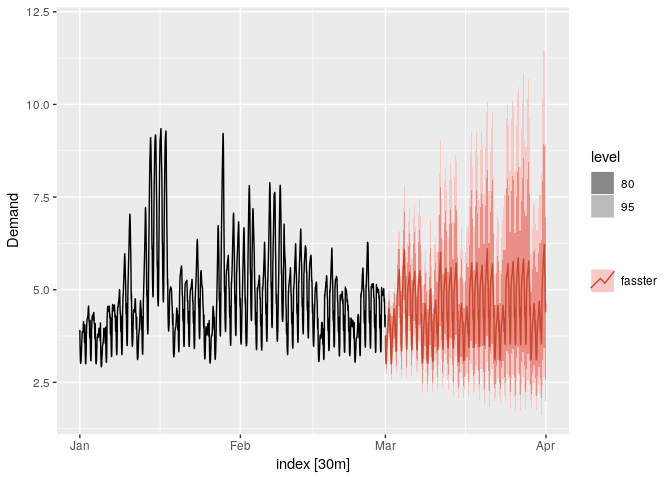
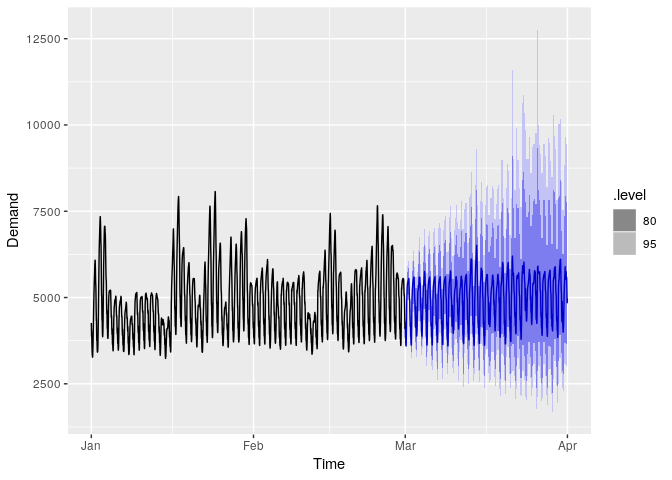
Updated README for other package changes
Resolves #43

diff --git a/README.md b/README.md
@@ -58,11 +58,42 @@ Usage
 specify the model structure with standard formula conventions.
 
 ``` r
-fit <- tsibbledata::UKLungDeaths %>%
-  model(fasster = FASSTER(fdeaths ~ mdeaths))
+library(fasster)
+#> Loading required package: fablelite
+library(tidyverse)
+#> ── Attaching packages ────────────────────────────────────────────────────────────────────────────────────────────────────────────────── tidyverse 1.2.1 ──
+#> ✔ ggplot2 3.1.1     ✔ purrr   0.3.2
+#> ✔ tibble  2.1.1     ✔ dplyr   0.8.1
+#> ✔ tidyr   0.8.3     ✔ stringr 1.4.0
+#> ✔ readr   1.3.1     ✔ forcats 0.3.0
+#> ── Conflicts ───────────────────────────────────────────────────────────────────────────────────────────────────────────────────── tidyverse_conflicts() ──
+#> ✖ dplyr::filter() masks stats::filter()
+#> ✖ dplyr::lag()    masks stats::lag()
+library(lubridate)
+#> 
+#> Attaching package: 'lubridate'
+#> The following object is masked from 'package:base':
+#> 
+#>     date
+library(tsibble)
+#> 
+#> Attaching package: 'tsibble'
+#> The following objects are masked from 'package:lubridate':
+#> 
+#>     interval, new_interval
+#> The following object is masked from 'package:dplyr':
+#> 
+#>     id
+library(fable)
 
-fit %>% summary
-#> FASSTER ModelEstimated variances:
+lung_deaths <- as_tsibble(cbind(mdeaths, fdeaths), pivot_longer = FALSE)
+fit <- lung_deaths %>%
+  model(fasster = FASSTER(fdeaths ~ mdeaths))
+fit %>% report()
+#> Series: fdeaths 
+#> Model: FASSTER 
+#> 
+#> Estimated variances:
 #>  State noise variances (W):
 #>   mdeaths
 #>    1.7119e-34
@@ -86,16 +117,18 @@ For example, to create a model with trend and monthly seasonality, you
 can use:
 
 ``` r
-fit <- USAccDeaths %>% 
-  as_tsibble %>% 
+fit <- as_tsibble(USAccDeaths) %>% 
   model(fasster = FASSTER(value ~ poly(1) + trig(12)))
-fit %>% summary
-#> FASSTER ModelEstimated variances:
+fit %>% report()
+#> Series: value 
+#> Model: FASSTER 
+#> 
+#> Estimated variances:
 #>  State noise variances (W):
 #>   poly(1)
 #>    5.9382e+03
 #>   trig(12)
-#>    1.4370e-12 7.8660e-13 7.4156e-13 1.1844e-12 2.8774e-13 6.4809e-13 2.6654e-13 4.1593e-13 5.5689e-13 1.4806e-13 2.7203e-13
+#>    8.7014e-13 4.3753e-13 6.1525e-13 1.0068e-13 4.0775e-13 2.3503e-13 3.1338e-13 2.2672e-13 2.7455e-13 2.5930e-13 1.0622e-13
 #> 
 #>  Observation noise variance (V):
 #>   2.0543e+04
@@ -107,8 +140,12 @@ more complex patterns such as multiple seasonality by modelling the
 components for each group separately and switching between them.
 
 ``` r
-elec_tr <- tsibbledata::elecdemand %>%
-  dplyr::filter(index < lubridate::ymd("2014-03-01"))
+elec_tr <- tsibbledata::aus_elec %>%
+  filter(
+    State == "Victoria",
+    Time < lubridate::ymd("2012-03-01")
+  ) %>% 
+  mutate(WorkDay = wday(Time) %in% 2:6 & !Holiday)
 
 elec_fit <- elec_tr %>%
   model(
@@ -129,43 +166,48 @@ These components can accessed from a fitted model using the
 
 ``` r
 fit %>% 
-  components
-#> # A tsibble: 72 x 4 [1M]
-#> # Key:       .model [1]
-#>    .model     index `poly(1)` `trig(12)`
-#>    <chr>      <mth>     <dbl>      <dbl>
-#>  1 fasster 1973 Jan     9740.     -795. 
-#>  2 fasster 1973 Feb     9754.    -1546. 
-#>  3 fasster 1973 Mar     9719.     -758. 
-#>  4 fasster 1973 Apr     9706.     -536. 
-#>  5 fasster 1973 May     9693.      322. 
-#>  6 fasster 1973 Jun     9694.      802. 
-#>  7 fasster 1973 Jul     9830.     1669. 
-#>  8 fasster 1973 Aug     9755.      974. 
-#>  9 fasster 1973 Sep     9761.      -65.7
-#> 10 fasster 1973 Oct     9768.      233. 
-#> # ... with 62 more rows
+  components()
+#> # A dable:               72 x 5 [1M]
+#> # Key:                   .model [1]
+#> # FASSTER Decomposition: value = `poly(1)` + `trig(12)`
+#>    .model     index value `poly(1)` `trig(12)`
+#>    <chr>      <mth> <dbl>     <dbl>      <dbl>
+#>  1 fasster 1973 Jan  9007     9740.     -795. 
+#>  2 fasster 1973 Feb  8106     9754.    -1546. 
+#>  3 fasster 1973 Mar  8928     9719.     -758. 
+#>  4 fasster 1973 Apr  9137     9706.     -536. 
+#>  5 fasster 1973 May 10017     9693.      322. 
+#>  6 fasster 1973 Jun 10826     9694.      802. 
+#>  7 fasster 1973 Jul 11317     9830.     1669. 
+#>  8 fasster 1973 Aug 10744     9755.      974. 
+#>  9 fasster 1973 Sep  9713     9761.      -65.7
+#> 10 fasster 1973 Oct  9938     9768.      233. 
+#> # … with 62 more rows
 ```
 
 ``` r
 elec_fit %>%
-  components
-#> # A tsibble: 2,832 x 8 [30m] <UTC>
-#> # Key:       .model [1]
-#>    .model index               `I(Temperature^… Temperature `WorkDay_0/poly…
-#>    <chr>  <dttm>                         <dbl>       <dbl>            <dbl>
-#>  1 fasst… 2014-01-01 00:00:00         0.000512     -0.0189             1.55
-#>  2 fasst… 2014-01-01 00:30:00         0.000512     -0.0189             1.55
-#>  3 fasst… 2014-01-01 01:00:00         0.000512     -0.0189             1.55
-#>  4 fasst… 2014-01-01 01:30:00         0.000512     -0.0189             1.55
-#>  5 fasst… 2014-01-01 02:00:00         0.000510     -0.0188             1.55
-#>  6 fasst… 2014-01-01 02:30:00         0.000509     -0.0186             1.54
-#>  7 fasst… 2014-01-01 03:00:00         0.000510     -0.0187             1.54
-#>  8 fasst… 2014-01-01 03:30:00         0.000509     -0.0187             1.53
-#>  9 fasst… 2014-01-01 04:00:00         0.000521     -0.0195             1.54
-#> 10 fasst… 2014-01-01 04:30:00         0.000505     -0.0184             1.52
-#> # ... with 2,822 more rows, and 3 more variables: `WorkDay_0/trig(48,
-#> #   16)` <dbl>, `WorkDay_1/poly(1)` <dbl>, `WorkDay_1/trig(48, 16)` <dbl>
+  components()
+#> # A dable:               2,880 x 10 [30m] <UTC>
+#> # Key:                   State, .model [1]
+#> # FASSTER Decomposition: log(Demand) = `I(Temperature^2)` + Temperature +
+#> #   `WorkDay_FALSE/poly(1)` + `WorkDay_FALSE/trig(48, 16)` +
+#> #   `WorkDay_TRUE/poly(1)` + `WorkDay_TRUE/trig(48, 16)`
+#>    State .model Time                `log(Demand)` `I(Temperature^…
+#>    <chr> <chr>  <dttm>                      <dbl>            <dbl>
+#>  1 Vict… fasst… 2012-01-01 00:00:00          8.36         0.000996
+#>  2 Vict… fasst… 2012-01-01 00:30:00          8.31         0.000996
+#>  3 Vict… fasst… 2012-01-01 01:00:00          8.26         0.000997
+#>  4 Vict… fasst… 2012-01-01 01:30:00          8.30         0.000998
+#>  5 Vict… fasst… 2012-01-01 02:00:00          8.26         0.001000
+#>  6 Vict… fasst… 2012-01-01 02:30:00          8.21         0.00101 
+#>  7 Vict… fasst… 2012-01-01 03:00:00          8.18         0.00101 
+#>  8 Vict… fasst… 2012-01-01 03:30:00          8.14         0.000962
+#>  9 Vict… fasst… 2012-01-01 04:00:00          8.12         0.001000
+#> 10 Vict… fasst… 2012-01-01 04:30:00          8.11         0.000924
+#> # … with 2,870 more rows, and 5 more variables: Temperature <dbl>,
+#> #   `WorkDay_FALSE/poly(1)` <dbl>, `WorkDay_FALSE/trig(48, 16)` <dbl>,
+#> #   `WorkDay_TRUE/poly(1)` <dbl>, `WorkDay_TRUE/trig(48, 16)` <dbl>
 ```
 
 The tools made available by *fasster* are designed to integrate
@@ -174,17 +216,14 @@ manipulation and visualisation capabilities.
 
 ### Forecasting
 
-*fasster* conforms to the object structure from the *forecast* package,
+*fasster* conforms to the object structure from the *fable* package,
 allowing common visualisation and analysis tools to be applied on
 FASSTER models.
 
 ``` r
-library(fable)
-
 fit %>% 
   forecast(h=24) %>%
   autoplot(as_tsibble(USAccDeaths))
-#> Selecting index: "index"
 ```
 
 ![](man/figure/forecast-1.png)
@@ -194,9 +233,12 @@ in the model specification. If additional information is required by the
 model (such as `WorkDay` and `Temperature`)
 
 ``` r
-elec_ts <- tsibbledata::elecdemand %>%
-  filter(index >= lubridate::ymd("2014-03-01"),
-         index < lubridate::ymd("2014-04-01")) %>% 
+elec_ts <- tsibbledata::aus_elec %>%
+  filter(
+    State == "Victoria",
+    yearmonth(Time) == yearmonth("2012 Mar")
+  ) %>% 
+  mutate(WorkDay = wday(Time) %in% 2:6 & !Holiday) %>% 
   select(-Demand)
 elec_fit %>% 
   forecast(new_data = elec_ts) %>% 
